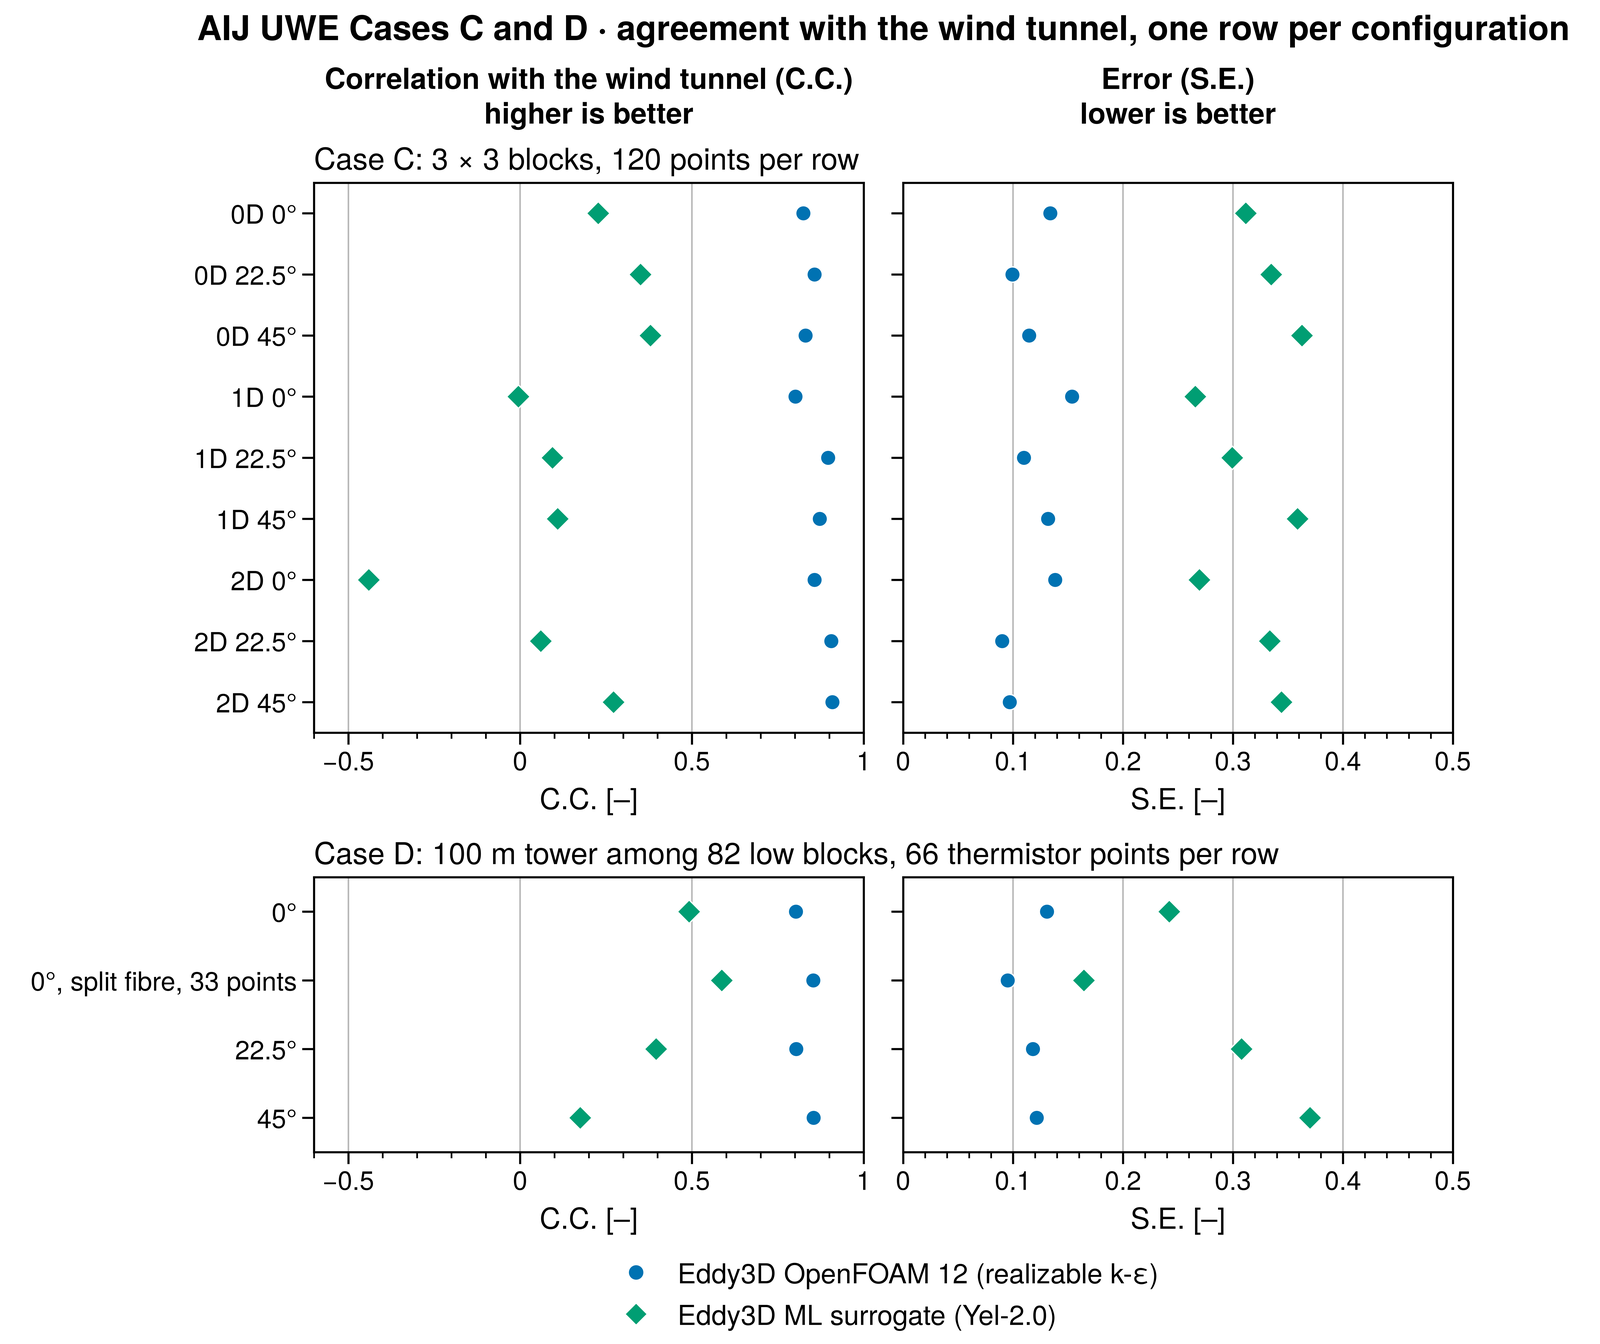
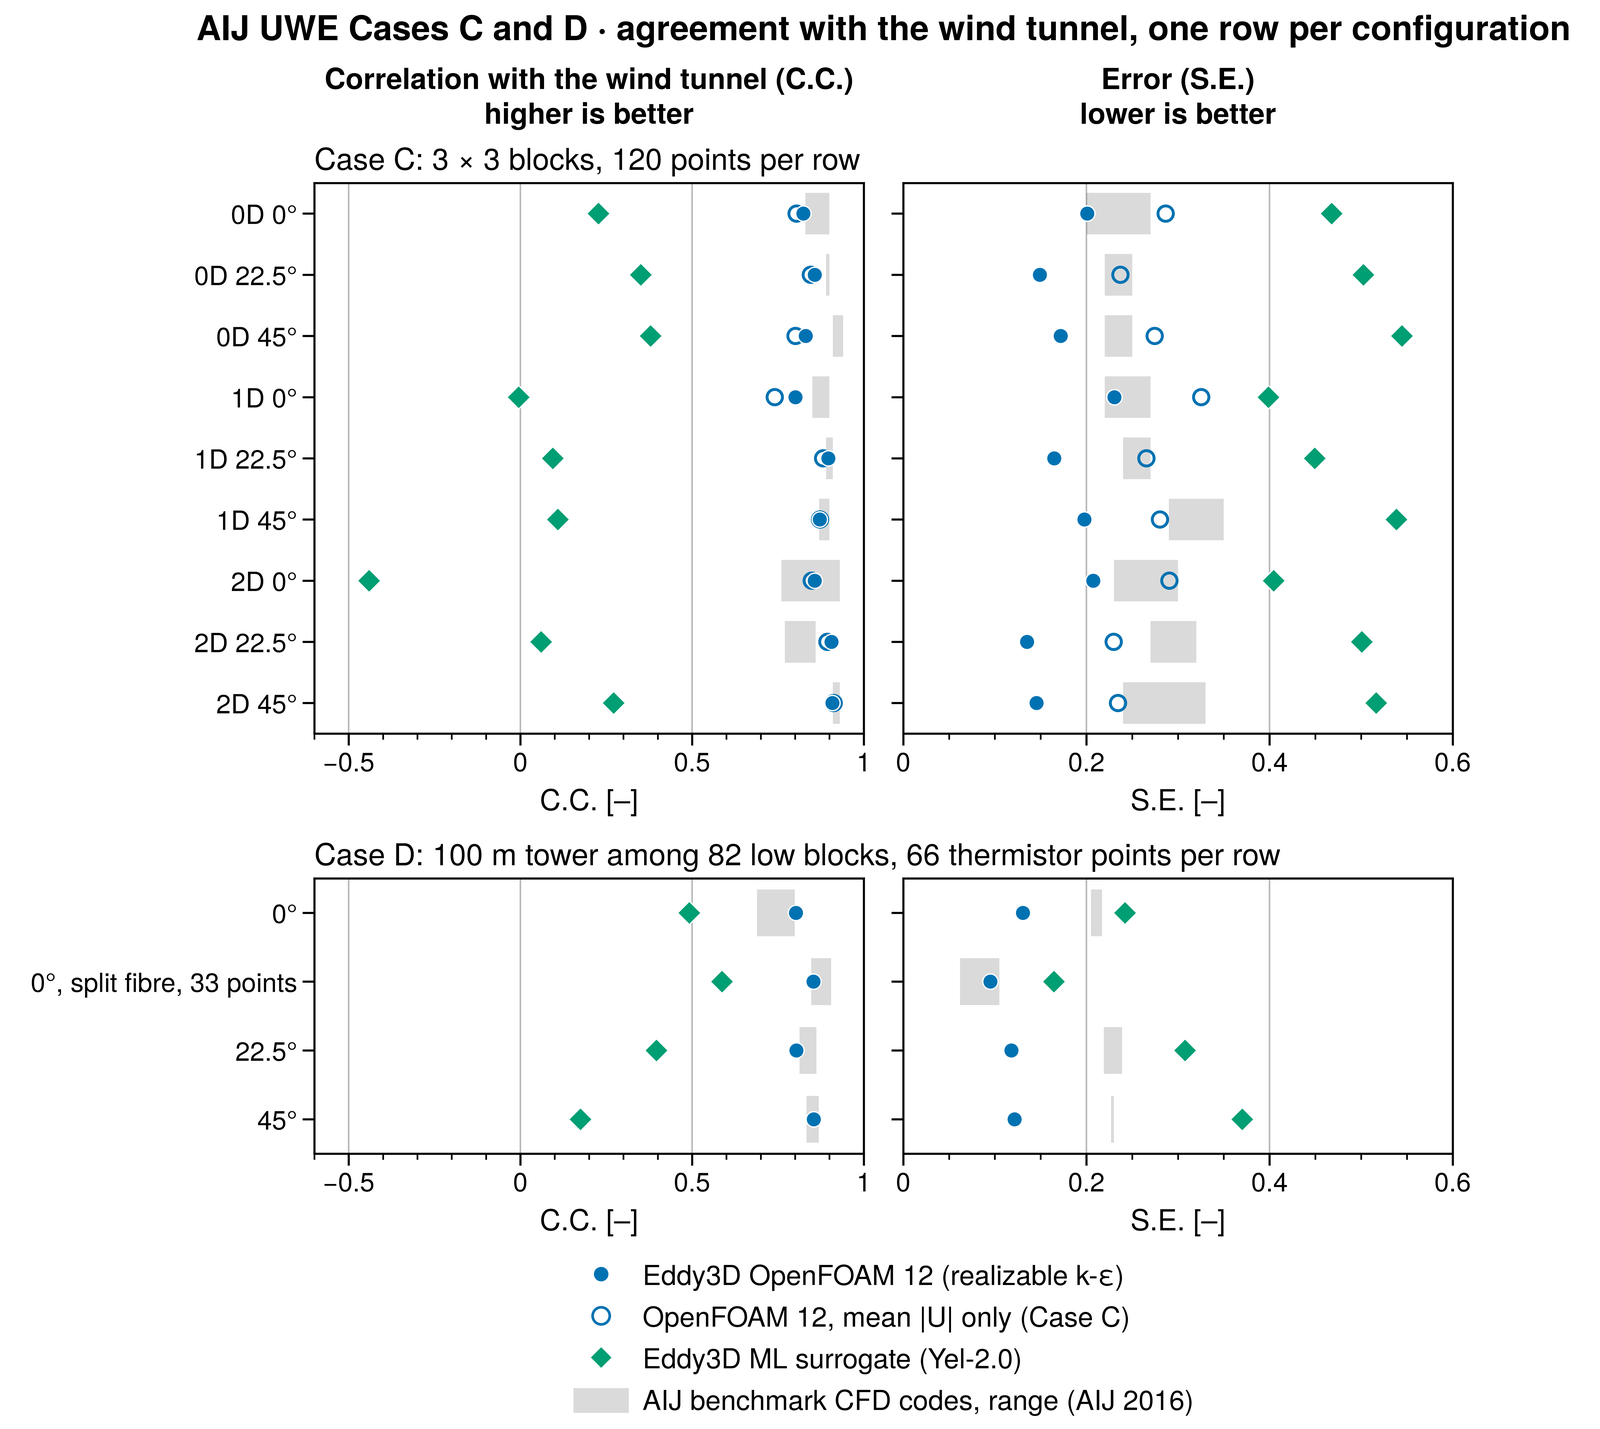
Cases C and D scores: the AIJ codes' range behind each row
Table 3-1-3 and Figs. 3-2-10 to 3-2-16 of the AIJ benchmark book (2016) give C.C. and S.E. of the CFD codes the
AIJ ran on Cases C and D. The figure draws their min-max as a grey box behind each row; only the ranges are stored.

Case C is now scored over the approach speed at the measuring height (z = 0.02 m), the book's normalisation, and
carries a hollow OpenFOAM |U| marker, because Table 3-1-3 is the mean |U| without the 2k term; the filled marker
stays the scalar speed a thermistor reads. S.E. is read as the RMS difference about the 1:1 line: that reproduces
the book's Case C magnitudes (0.23-0.33 against 0.20-0.35), a regression standard error does not (0.12-0.19).

diff --git a/validation/plot_cases_cd_scores.py b/validation/plot_cases_cd_scores.py
@@ -3,12 +3,23 @@
   figures/cases-cd-scores.png
       One row per configuration (Case C: centre block x WD; Case D: WD, and the split-fibre points), one dot per
       model.  Left: the correlation coefficient C.C. with the tunnel (higher is better).  Right: the error S.E.
-      (lower is better).  The scatter figures show every point of one model; this one puts every configuration
-      and both models on one scale, so the weak rows read off at a glance.
+      (lower is better).  The grey box behind a row is the range of the CFD codes the AIJ working group ran on the
+      same configuration (AIJ 2016, BOOK_C and BOOK_D below).  The scatter figures show every point of one model;
+      this one puts every configuration, both models and the AIJ codes on one scale.
 
-C.C. is Pearson's R and S.E. the root-mean-square difference, both over the normalised pedestrian-height speed
-of the configuration's points.  OpenFOAM is the scalar speed sqrt(|U|^2 + 2k)/U_H against the thermistor Vs (the
-split-fibre points: |U|/U_H against the measured |U|); the ML surrogate is |U_mean|/U_H, as in its own figure.
+C.C. is Pearson's R and S.E. the root-mean-square difference about the 1:1 line, over the normalised pedestrian-height
+speed of the configuration's points.  The AIJ book never defines S.E.; RMS difference is the reading that reproduces
+its numbers (our OpenFOAM |U| in Case C: 0.23-0.33 against the book's 0.20-0.35; a regression standard error gives
+0.12-0.19) and that moves with bias the way the book's does (Fig. 3-1-9: 0.24 -> 0.14 once the 2k term is added).
+
+What is compared with what, row by row, so a dot and a box are the same quantity:
+  Case C   speeds over the approach speed at the measuring height z = 0.02 m (the book's "inflow velocity at the same
+           height"; clean/cases/C/approach_flow.csv), not over U_H.  The book's Table 3-1-3 is the mean |U| speed
+           with no 2k term, so the box is drawn against OpenFOAM |U| (hollow) and the ML surrogate (|U_mean|); the
+           filled OpenFOAM dot is the scalar speed sqrt(|U|^2 + 2k) that a thermistor reads, which the book shows to
+           score better (Fig. 3-1-9) and does not tabulate.
+  Case D   speeds over U_H.  The book's thermistor rows (Figs. 3-2-14 to 3-2-16) carry the 2k correction, so the filled
+           OpenFOAM dot is the scalar speed; its split-fibre row (Figs. 3-2-10 to 3-2-12) is |U| against the measured |U|.
 
 Inputs: validation/results/case{C,D}_ml_pairs.csv and case{C,D}_openfoam12_realizableKE_pairs.csv, the snapshots
 plot_ml_surrogate.py and plot_case_{c,d}_openfoam.py write.  Each ML R is asserted against the fixture's own score
@@ -24,13 +35,34 @@ import os
 import numpy as np
 import ultraplot as uplt
 from matplotlib.lines import Line2D
+from matplotlib.patches import Patch
 
 import plotstyle as style
 
 HERE = os.path.dirname(os.path.abspath(__file__))
 RESULTS = os.path.join(HERE, "results")
+CLEAN = os.path.join(os.path.dirname(HERE), "clean", "cases")
 WDS = [0.0, 22.5, 45.0]
 CONFIGS = ["0D", "1D", "2D"]
+
+# Architectural Institute of Japan (2016), "AIJ Benchmarks for Validation of CFD Simulations Applied to Pedestrian Wind
+# Environment around Buildings", ISBN 978-4-8189-5001-6 (c) AIJ, a paid download that is not stored here.  Only the
+# range per row is kept: ((C.C. min, max), (S.E. min, max)) over the codes the AIJ working group ran, steady RANS all.
+# Case C, Table 3-1-3, per wind direction the centre block 0D, 1D, 2D: organisations A (own code), B (STAR-CD, standard
+# and modified k-eps, 0 deg only), C (STREAM), D (FLUENT), so five runs at 0 deg and three at 22.5 and 45 deg.
+BOOK_C = {
+    0.0: [((0.83, 0.90), (0.20, 0.27)), ((0.85, 0.90), (0.22, 0.27)), ((0.76, 0.93), (0.23, 0.30))],
+    22.5: [((0.89, 0.90), (0.22, 0.25)), ((0.89, 0.91), (0.24, 0.27)), ((0.77, 0.86), (0.27, 0.32))],
+    45.0: [((0.91, 0.94), (0.22, 0.25)), ((0.87, 0.90), (0.29, 0.35)), ((0.91, 0.93), (0.24, 0.33))],
+}
+# Case D, the basic run of codes M, T and O: Figs. 3-2-10 to 3-2-12 (split fibre, 0 deg) and 3-2-14 to 3-2-16 (thermistor,
+# corrected with the calculated k).  The book's further runs of each code vary one setting (domain, ground law, model).
+BOOK_D = {
+    ("thermistor", 0.0): ((0.689, 0.799), (0.205, 0.217)),
+    ("thermistor", 22.5): ((0.813, 0.862), (0.219, 0.239)),
+    ("thermistor", 45.0): ((0.833, 0.869), (0.227, 0.230)),
+    ("split_fibre", 0.0): ((0.847, 0.905), (0.062, 0.105)),
+}
 
 
 def read(name):
@@ -43,9 +75,18 @@ def ml_json(case):
         return json.load(f)
 
 
-def score(obs, pred, ref_r=None):
+def approach_U(z):
+    with io.open(os.path.join(CLEAN, "C", "approach_flow.csv"), encoding="utf-8") as f:
+        return {float(r["z"]): float(r["U"]) for r in csv.DictReader(f)}[z]
+
+
+# the pairs hold speed/U_H with U_H = U(0.2 m); the book's Case C ratio is over U(0.02 m), the height of every point
+C_RESCALE = approach_U(0.2) / approach_U(0.02)
+
+
+def score(obs, pred, ref_r=None, scale=1.0):
     """(C.C., S.E.) of one configuration; `ref_r` is the fixture's R for the same points."""
-    o, p = np.array(obs, float), np.array(pred, float)
+    o, p = np.array(obs, float) * scale, np.array(pred, float) * scale
     r = float(np.corrcoef(o, p)[0, 1])
     if ref_r is not None:
         assert abs(r - ref_r) < 1e-9, (r, ref_r)
@@ -53,18 +94,22 @@ def score(obs, pred, ref_r=None):
 
 
 def case_c():
-    """[(row label, ML score, OpenFOAM score)], centre block major, WD minor."""
+    """[(row label, ML score, OpenFOAM scalar score, AIJ box, OpenFOAM |U| score)], centre block major, WD minor."""
     ml, of, ref = read("caseC_ml_pairs.csv"), read("caseC_openfoam12_realizableKE_pairs.csv"), ml_json("C")
     rows = []
-    for cfg in CONFIGS:
+    for i, cfg in enumerate(CONFIGS):
         for wd in WDS:
             tag = f"WD{wd:g}_CB{cfg}"
             m = [r for r in ml if r["set"] == tag]
             o = [r for r in of if r["config"] == cfg and float(r["wind_direction_deg"]) == wd]
             assert len(m) == len(o) == 120, (tag, len(m), len(o))
+            meas = [r["measured_over_UH"] for r in o]
             rows.append((f"{cfg} {wd:g}°",
-                         score([r["observed_over_UH"] for r in m], [r["predicted_over_UH"] for r in m], ref[f"speed.thermistor.{tag}"]["R"]),
-                         score([r["measured_over_UH"] for r in o], [r["scalar_over_UH"] for r in o])))
+                         score([r["observed_over_UH"] for r in m], [r["predicted_over_UH"] for r in m],
+                               ref[f"speed.thermistor.{tag}"]["R"], C_RESCALE),
+                         score(meas, [r["scalar_over_UH"] for r in o], scale=C_RESCALE),
+                         BOOK_C[wd][i],
+                         score(meas, [r["vector_over_UH"] for r in o], scale=C_RESCALE)))
     return rows
 
 
@@ -78,34 +123,38 @@ def case_d():
         assert len(m) == len(o) == 66, (tag, len(m), len(o))
         rows.append((f"{wd:g}°",
                      score([r["observed_over_UH"] for r in m], [r["predicted_over_UH"] for r in m], ref[f"speed.thermistor.{tag}"]["R"]),
-                     score([r["measured_over_UH"] for r in o], [r["scalar_over_UH"] for r in o])))
+                     score([r["measured_over_UH"] for r in o], [r["scalar_over_UH"] for r in o]),
+                     BOOK_D[("thermistor", wd)], None))
         if wd == 0:   # the 33 split-fibre points, a different instrument, at WD 0 only
             m = [r for r in ml if r["set"] == "WD0_splitFibre_Umag"]
             o = [r for r in of if r["instrument"] == "split_fibre"]
             assert len(m) == len(o) == 33, (len(m), len(o))
             rows.append(("0°, split fibre, 33 points",
                          score([r["observed_over_UH"] for r in m], [r["predicted_over_UH"] for r in m]),
-                         score([r["measured_over_UH"] for r in o], [r["vector_over_UH"] for r in o])))
+                         score([r["measured_over_UH"] for r in o], [r["vector_over_UH"] for r in o]),
+                         BOOK_D[("split_fibre", 0.0)], None))
     return rows
 
 
 SECTIONS = [("Case C: 3 × 3 blocks, 120 points per row", case_c()),
             ("Case D: 100 m tower among 82 low blocks, 66 thermistor points per row", case_d())]
-se_max = max(s[1] for _, rows in SECTIONS for _, ml, of in rows for s in (ml, of))
-cc_min = min(s[0] for _, rows in SECTIONS for _, ml, of in rows for s in (ml, of))
-CC_LIM, SE_LIM = (min(0.0, np.floor(cc_min * 5) / 5), 1.0), (0.0, 0.1 * np.ceil(se_max * 11))   # a tick of headroom on each
+cc_all = [s[0] for _, rows in SECTIONS for _, ml, of, box, alt in rows for s in (ml, of, alt) if s]
+se_all = [s[1] for _, rows in SECTIONS for _, ml, of, box, alt in rows for s in (ml, of, alt) if s]
+CC_LIM, SE_LIM = (min(0.0, np.floor(min(cc_all) * 5) / 5), 1.0), (0.0, 0.1 * np.ceil(max(se_all) * 11))   # a tick of headroom on each
 
 style.apply()
 fig, axs = uplt.subplots(array=[[1, 2], [3, 4]], hratios=[len(SECTIONS[0][1]) + 1, len(SECTIONS[1][1]) + 1],
                          refwidth=2.9, refaspect=1.0, sharex=False, sharey=False, wspace=1.5, hspace=5.5)
 for s, (heading, rows) in enumerate(SECTIONS):
-    last = s == len(SECTIONS) - 1
     y = np.arange(len(rows))
     for c, (lim, name) in enumerate([(CC_LIM, "C.C. [–]"), (SE_LIM, "S.E. [–]")]):
         ax = axs[2 * s + c]
-        for i, (label, ml, of) in enumerate(rows):
-            ax.scatter([of[c]], [i], s=34, color=style.OPENFOAM, edgecolor=style.SURFACE, linewidth=0.5, zorder=4)
-            ax.scatter([ml[c]], [i], s=40, marker="D", color=style.ML, edgecolor=style.SURFACE, linewidth=0.5, zorder=4)
+        for i, (label, ml, of, box, alt) in enumerate(rows):
+            ax.fill_betweenx([i - 0.34, i + 0.34], *box[c], color=style.FOOTPRINT, linewidth=0, zorder=1)
+            if alt:
+                ax.scatter([alt[c]], [i], s=34, facecolor="none", edgecolor=style.OPENFOAM, linewidth=1.1, zorder=4)
+            ax.scatter([of[c]], [i], s=34, color=style.OPENFOAM, edgecolor=style.SURFACE, linewidth=0.5, zorder=5)
+            ax.scatter([ml[c]], [i], s=40, marker="D", color=style.ML, edgecolor=style.SURFACE, linewidth=0.5, zorder=5)
         ax.format(xlim=lim, ylim=(len(rows) - 0.5, -0.5), ygrid=False, yminorticks=[], xlabel=name,
                   yticks=y, yticklabels=[r[0] for r in rows] if c == 0 else [])
         ax.format(abc=False)
@@ -115,9 +164,14 @@ style.finish(fig, "AIJ UWE Cases C and D · agreement with the wind tunnel, one 
              collabels=["Correlation with the wind tunnel (C.C.)\nhigher is better", "Error (S.E.)\nlower is better"],
              handles=[Line2D([], [], ls="none", marker="o", markersize=6.5, markerfacecolor=style.OPENFOAM, markeredgecolor=style.SURFACE,
                              label="Eddy3D OpenFOAM 12 (realizable k-ε)"),
+                      Line2D([], [], ls="none", marker="o", markersize=6.5, markerfacecolor="none", markeredgecolor=style.OPENFOAM,
+                             label="OpenFOAM 12, mean |U| only (Case C)"),
                       Line2D([], [], ls="none", marker="D", markersize=6.5, markerfacecolor=style.ML, markeredgecolor=style.SURFACE,
-                             label="Eddy3D ML surrogate (Yel-2.0)")], ncols=1)
+                             label="Eddy3D ML surrogate (Yel-2.0)"),
+                      Patch(facecolor=style.FOOTPRINT, label="AIJ benchmark CFD codes, range (AIJ 2016)")], ncols=1)
 style.save(fig, "cases-cd-scores.png")
 for s, (heading, rows) in enumerate(SECTIONS):
-    for label, ml, of in rows:
-        print(f"{heading[:6]} {label:28s} OpenFOAM C.C. {of[0]:+.2f} S.E. {of[1]:.3f} | ML C.C. {ml[0]:+.2f} S.E. {ml[1]:.3f}")
+    for label, ml, of, box, alt in rows:
+        a = f" | |U| C.C. {alt[0]:+.2f} S.E. {alt[1]:.3f}" if alt else ""
+        print(f"{heading[:6]} {label:28s} OpenFOAM C.C. {of[0]:+.2f} S.E. {of[1]:.3f}{a} | ML C.C. {ml[0]:+.2f} S.E. {ml[1]:.3f}"
+              f" | AIJ C.C. {box[0][0]:.2f}-{box[0][1]:.2f} S.E. {box[1][0]:.2f}-{box[1][1]:.2f}")

diff --git a/docs/validation.md b/docs/validation.md
@@ -30,7 +30,7 @@ Each case's Validation page has its measurement locations, every engine's result
 
 ## Cases C and D by configuration
 
-{% include figure.html name="cases-cd-scores.png" alt="Correlation and error against the wind tunnel for every configuration of Cases C and D, OpenFOAM and ML surrogate" caption="<strong>Figure 1.</strong> Cases C and D, one row per configuration: the correlation coefficient C.C. (higher is better) and the root-mean-square difference S.E. (lower is better) between the tunnel and each model, over the points of the row, in $$U_H$$ units. OpenFOAM is the scalar speed $$\sqrt{\lvert\mathbf{U}\rvert^2 + 2k}$$ against the thermistor's $$V_{\mathrm{s}}$$; the split-fibre row compares $$\lvert\mathbf{U}\rvert$$ with the measured $$\lvert\mathbf{U}\rvert$$. The ML surrogate is $$\lvert\mathbf{U}\rvert$$. Rows: Case C, the centre block (0D absent, 1D, 2D) and the wind direction; Case D, the wind direction." %}
+{% include figure.html name="cases-cd-scores.png" alt="Correlation and error against the wind tunnel for every configuration of Cases C and D, OpenFOAM and ML surrogate" caption="<strong>Figure 1.</strong> Cases C and D, one row per configuration: the correlation coefficient C.C. (higher is better) and the root-mean-square difference S.E. (lower is better) between the tunnel and each model over the points of the row. The AIJ gives no formula for S.E.; the RMS difference is this repository's reading. Speeds are over $$U_H$$ in Case D and over the approach speed at the measuring height ($$z = 0.02\thinspace\mathrm{m}$$) in Case C, as in the AIJ benchmark. Filled blue: OpenFOAM scalar speed $$\sqrt{\lvert\mathbf{U}\rvert^2 + 2k}$$ against the thermistor's $$V_{\mathrm{s}}$$; in the split-fibre row, $$\lvert\mathbf{U}\rvert$$ against the measured $$\lvert\mathbf{U}\rvert$$. Hollow blue, Case C: OpenFOAM $$\lvert\mathbf{U}\rvert$$ without the $$2k$$ term, the quantity of the AIJ table. Green: ML surrogate, $$\lvert\mathbf{U}\rvert$$. Grey: range of the CFD codes the AIJ ran on the row (steady RANS; four codes in Case C, five runs at 0° and three at 22.5° and 45°; three codes in Case D), from Table 3-1-3 and Figs. 3-2-10 to 3-2-16 of the AIJ benchmark book (2016). Rows: Case C, the centre block (0D absent, 1D, 2D) and the wind direction; Case D, the wind direction." %}
 
 ## Every case and engine
 

diff --git a/papers/README.md b/papers/README.md
@@ -6,6 +6,7 @@ No PDFs are stored in this repository. Each paper is cited and linked by DOI; re
 |---|---|---|
 | Kikumoto, H., Okaze, T., Yoshie, R., Tachibana, T., Ishihara, T., Nonomura, Y., Kiyota, N., Kondo, H., Mochida, A., Tominaga, Y. (2026). Comprehensive Experimental Database for Validating CFD Simulations in Urban Wind Environment: Benchmark Cases Curated by the Architectural Institute of Japan. *Japan Architectural Review* 9(1), e70083. | [doi:10.1002/2475-8876.70083](https://doi.org/10.1002/2475-8876.70083) | Open access, Creative Commons Attribution 4.0 (stated on its first page). |
 | Tominaga, Y., Mochida, A., Yoshie, R., Kataoka, H., Nozu, T., Yoshikawa, M., Shirasawa, T. (2008). AIJ guidelines for practical applications of CFD to pedestrian wind environment around buildings. *Journal of Wind Engineering and Industrial Aerodynamics* 96, 1749–1761. | [doi:10.1016/j.jweia.2008.02.058](https://doi.org/10.1016/j.jweia.2008.02.058) | © Elsevier, all rights reserved. |
+| Architectural Institute of Japan (2016). *AIJ Benchmarks for Validation of CFD Simulations Applied to Pedestrian Wind Environment around Buildings*. ISBN 978-4-8189-5001-6. English abridged edition, JPY 1,000 download. | [aij.or.jp/eng/publish/index_ddonly.htm](https://www.aij.or.jp/eng/publish/index_ddonly.htm) | © AIJ, all rights reserved; sold as a personal download. Only the per-row range of its C.C. and S.E. values is used, in `validation/plot_cases_cd_scores.py`. |
 
 The benchmark data paper (Kikumoto et al. 2026) is the citation for the data in this repository; see the
 README's *Cite* section and `CITATION.cff`. The AIJ's own page for the guidebook and the benchmark data is
